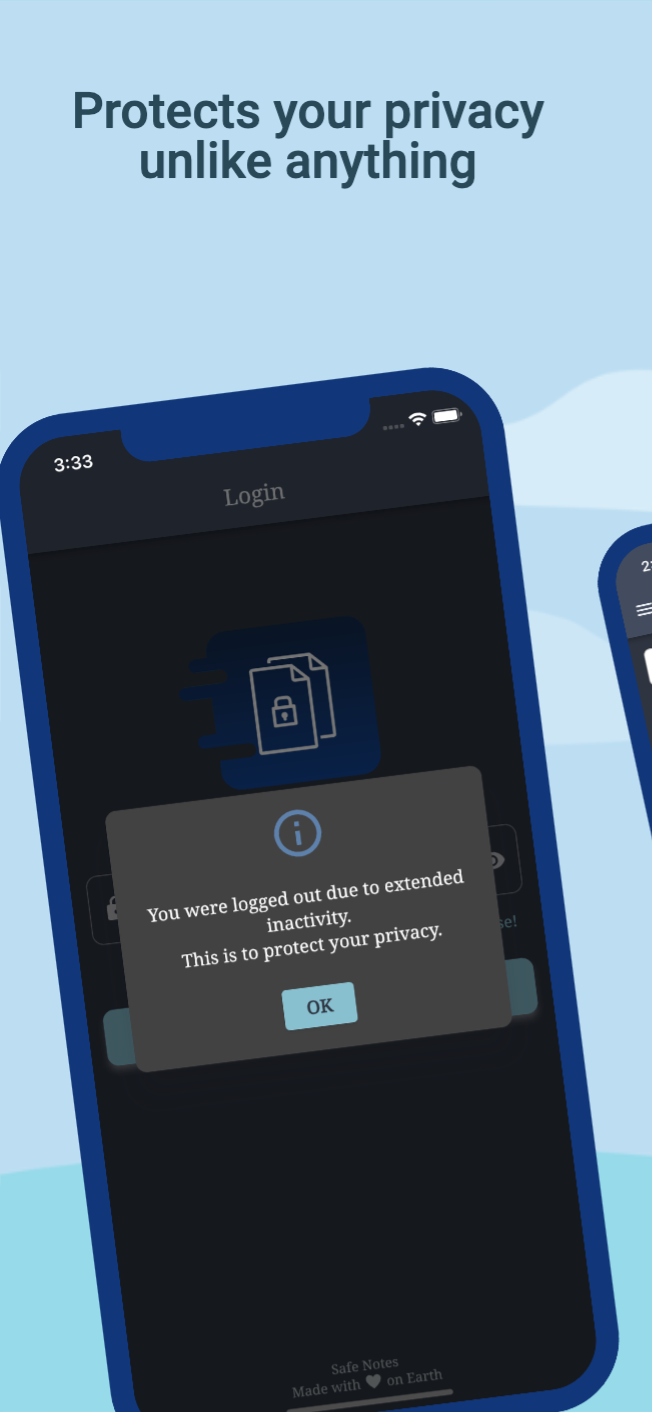
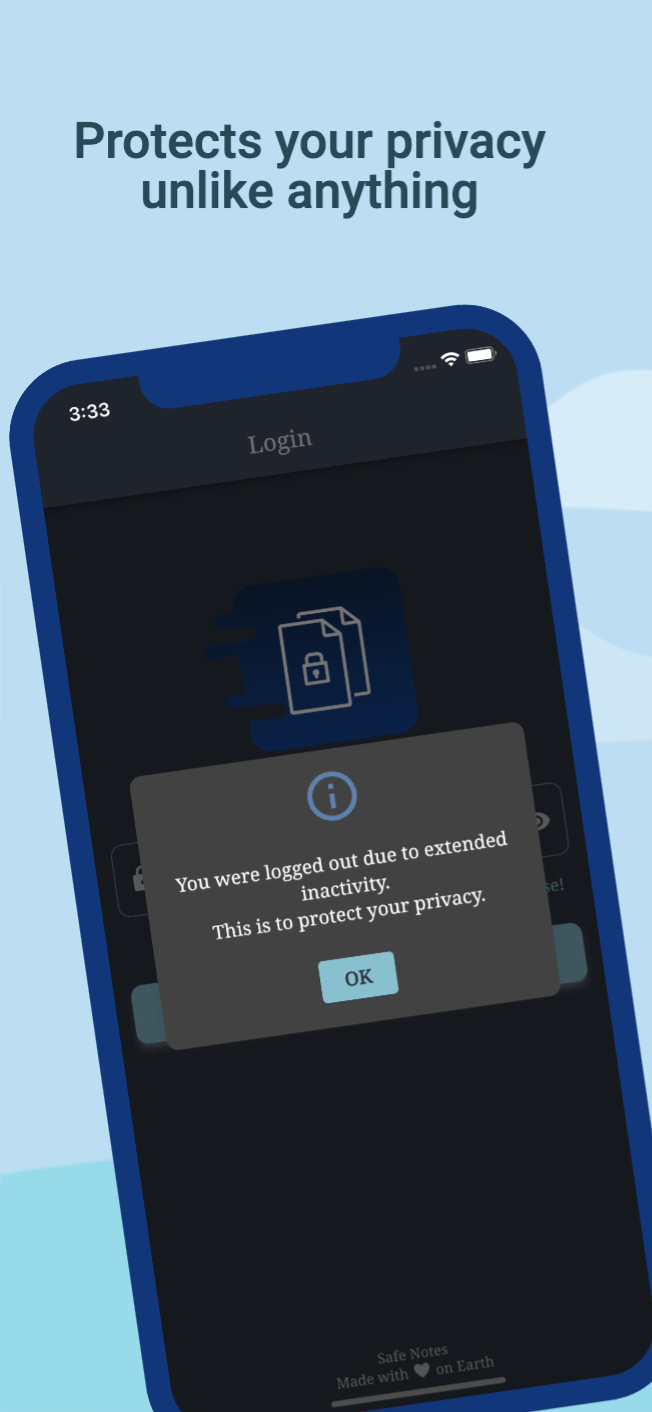
use new images for readme

diff --git a/README.md b/README.md
@@ -20,26 +20,16 @@
 
 ## Screenshots
 
+<p align="center">
+<img src="https://raw.githubusercontent.com/keshav-space/safenotes/dev/assets/github/image1.png" width="250" style="border-radius:3% 0 0 0">&nbsp;&nbsp;&nbsp;<img src="https://raw.githubusercontent.com/keshav-space/safenotes/dev/assets/github/image2.gif" width="250">&nbsp;&nbsp;&nbsp;<img src="https://raw.githubusercontent.com/keshav-space/safenotes/dev/assets/github/image3.png" width="250" style="border-radius:0 3% 0 0" >
+</br><img src="https://raw.githubusercontent.com/keshav-space/safenotes/dev/assets/github/image4.png" width="250" style="border-radius:0 0 0 3%">&nbsp;&nbsp;&nbsp;<img src="https://raw.githubusercontent.com/keshav-space/safenotes/dev/assets/github/image5.png" width="250">&nbsp;&nbsp;&nbsp;<img src="https://raw.githubusercontent.com/keshav-space/safenotes/dev/assets/github/image6.png" width="250" style="border-radius:0 0 3% 0">
+</p>
 
-| | | | |
+<!-- | | | | |
 |:-------------------------:|:-------------------------:|:-------------------------:|:-------------------------:|
 |<img src="https://raw.githubusercontent.com/keshav-space/safenotes/main/fastlane/metadata/android/en-US/images/phoneScreenshots/shot_01.png" width="180">|<img src="https://raw.githubusercontent.com/keshav-space/safenotes/main/fastlane/metadata/android/en-US/images/phoneScreenshots/shot_02.png" width="180">|<img src="https://raw.githubusercontent.com/keshav-space/safenotes/main/fastlane/metadata/android/en-US/images/phoneScreenshots/shot_03.png" width=180>|<img src="https://raw.githubusercontent.com/keshav-space/safenotes/main/fastlane/metadata/android/en-US/images/phoneScreenshots/shot_04.png" width=180>| 
-|<img src="https://raw.githubusercontent.com/keshav-space/safenotes/main/fastlane/metadata/android/en-US/images/phoneScreenshots/shot_05.png" width=180>|<img src="https://raw.githubusercontent.com/keshav-space/safenotes/main/fastlane/metadata/android/en-US/images/phoneScreenshots/shot_06.png" width=180>|<img src="https://raw.githubusercontent.com/keshav-space/safenotes/main/fastlane/metadata/android/en-US/images/phoneScreenshots/shot_07.png" width=180>|<img src="https://raw.githubusercontent.com/keshav-space/safenotes/main/fastlane/metadata/android/en-US/images/phoneScreenshots/shot_08.png" width=180>|
+|<img src="https://raw.githubusercontent.com/keshav-space/safenotes/main/fastlane/metadata/android/en-US/images/phoneScreenshots/shot_05.png" width=180>|<img src="https://raw.githubusercontent.com/keshav-space/safenotes/main/fastlane/metadata/android/en-US/images/phoneScreenshots/shot_06.png" width=180>|<img src="https://raw.githubusercontent.com/keshav-space/safenotes/main/fastlane/metadata/android/en-US/images/phoneScreenshots/shot_07.png" width=180>|<img src="https://raw.githubusercontent.com/keshav-space/safenotes/main/fastlane/metadata/android/en-US/images/phoneScreenshots/shot_08.png" width=180>| -->
 
-
-<!-- [<img src="fastlane/metadata/android/en-US/images/phoneScreenshots/shot_01.png" width=180>](fastlane/metadata/android/en-US/images/phoneScreenshots/shot_01.png) 
-[<img src="fastlane/metadata/android/en-US/images/phoneScreenshots/shot_02.png" width=180>](fastlane/metadata/android/en-US/images/phoneScreenshots/shot_02.png)
-[<img src="fastlane/metadata/android/en-US/images/phoneScreenshots/shot_03.png" width=180>](fastlane/metadata/android/en-US/images/phoneScreenshots/shot_03.png)
-[<img src="fastlane/metadata/android/en-US/images/phoneScreenshots/shot_04.png" width=180>](fastlane/metadata/android/en-US/images/phoneScreenshots/shot_04.png)
-[<img src="fastlane/metadata/android/en-US/images/phoneScreenshots/shot_05.png" width=180>](fastlane/metadata/android/en-US/images/phoneScreenshots/shot_05.png)
-[<img src="fastlane/metadata/android/en-US/images/phoneScreenshots/shot_06.png" width=180>](fastlane/metadata/android/en-US/images/phoneScreenshots/shot_06.png)
-[<img src="fastlane/metadata/android/en-US/images/phoneScreenshots/shot_07.png" width=180>](fastlane/metadata/android/en-US/images/phoneScreenshots/shot_07.png)
-[<img src="fastlane/metadata/android/en-US/images/phoneScreenshots/shot_08.png" width=180>](fastlane/metadata/android/en-US/images/phoneScreenshots/shot_08.png)
-[<img src="fastlane/metadata/android/en-US/images/phoneScreenshots/shot_09.png" width=180>](fastlane/metadata/android/en-US/images/phoneScreenshots/shot_09.png)
-[<img src="fastlane/metadata/android/en-US/images/phoneScreenshots/shot_09.png" width=160>](fastlane/metadata/android/en-US/images/phoneScreenshots/shot_09.png)
-[<img src="fastlane/metadata/android/en-US/images/phoneScreenshots/shot_10.png" width=160>](fastlane/metadata/android/en-US/images/phoneScreenshots/shot_10.png)
-[<img src="fastlane/metadata/android/en-US/images/phoneScreenshots/shot_11.png" width=405>](fastlane/metadata/android/en-US/images/phoneScreenshots/shot_11.png)
-[<img src="fastlane/metadata/android/en-US/images/phoneScreenshots/shot_12.png" width=405>](fastlane/metadata/android/en-US/images/phoneScreenshots/shot_12.png) -->
 
 ## Description
 
